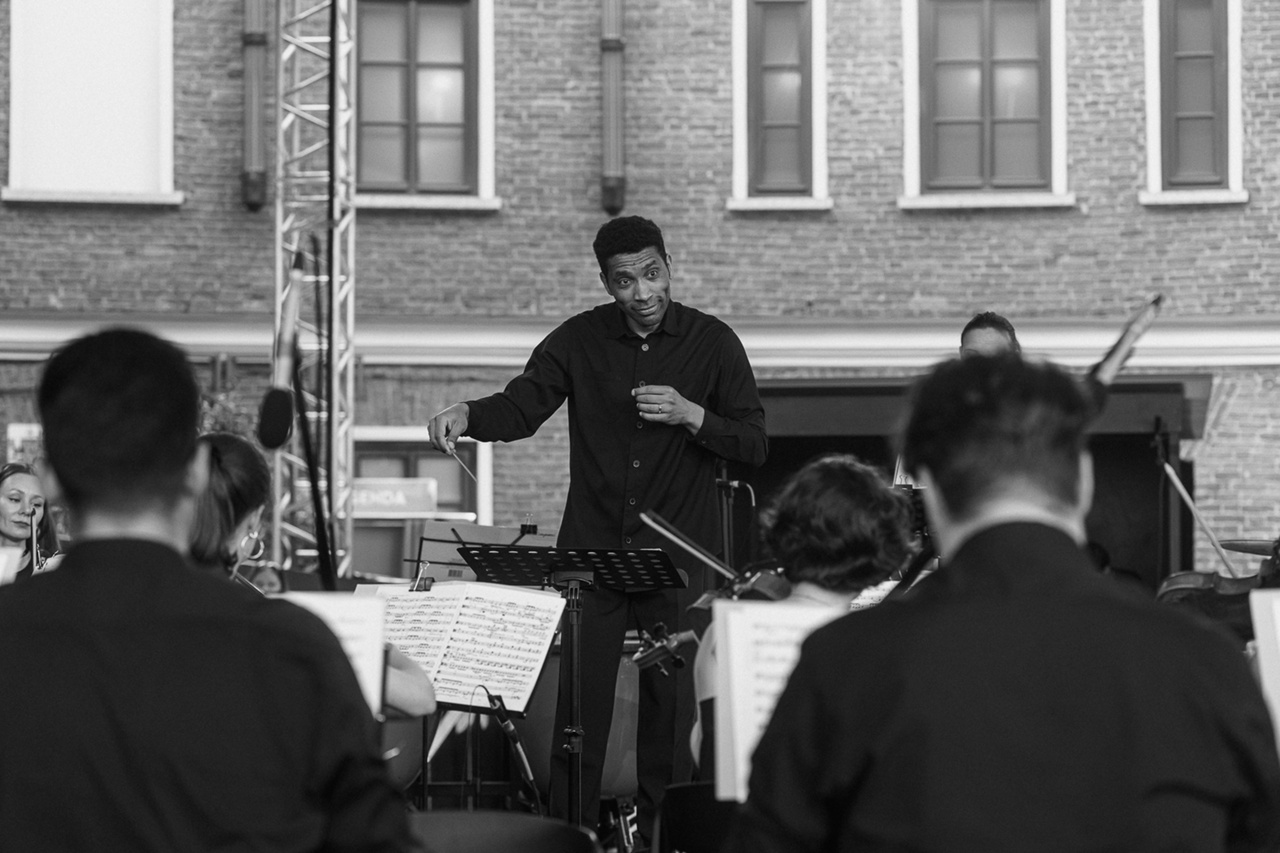
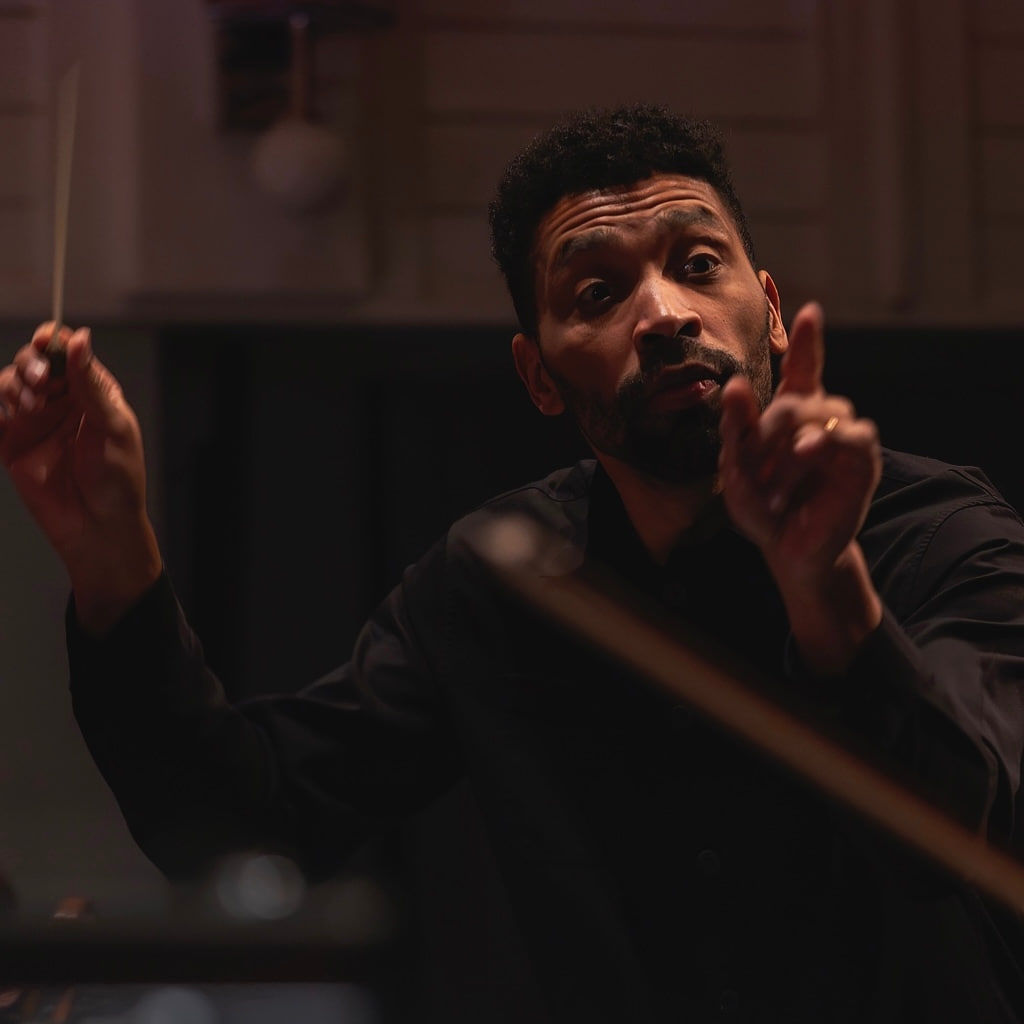
fix: color change in gallery

diff --git a/styles.css b/styles.css
@@ -422,8 +422,8 @@ img {
   --bg: #EFE3DA;
   --primary: #FF5757;
   --secondary: #FFBA55;
-  --text: #143127;
-  --muted: rgba(20, 49, 39, 0.72);
+  --text: #000000;
+  --muted: rgba(0, 0, 0, 0.72);
   --card: rgba(255, 255, 255, 0.72);
   --card-strong: rgba(255, 255, 255, 0.9);
   --line: rgba(20, 49, 39, 0.18);
@@ -774,7 +774,7 @@ body.is-menu-open {
   object-fit: cover;
   display: block;
   transform: scale(1.02);
-  filter: grayscale(1) contrast(1.25) brightness(0.98) saturate(0);
+  filter: grayscale(1) contrast(0.95) brightness(1.08) saturate(0);
 }
 
 .photo-halftone::after {
@@ -1653,34 +1653,57 @@ align-items: center;
   border-radius: 0;
 }
 
+.member-photo .photo-halftone {
+  display: block;
+  width: 100%;
+  height: 100%;
+}
+
+.member-photo .photo-halftone img {
+  width: 100%;
+  height: 100%;
+  object-fit: cover;
+  filter: grayscale(100%);
+  transition: filter 0.4s ease, transform 0.4s ease;
+}
+
+.member-card:hover .member-photo .photo-halftone img {
+  filter: grayscale(0%);
+  transform: scale(1.04);
+}
+
 .member-overlay {
   position: absolute;
   inset: auto 0 0 0;
   padding: 16px;
   background: linear-gradient(
     to top,
-    rgba(239, 227, 218, 0.95),
-    rgba(239, 227, 218, 0.65),
-    rgba(239, 227, 218, 0)
+    rgba(0, 0, 0, 0.92),
+    rgba(0, 0, 0, 0.55),
+    rgba(0, 0, 0, 0)
   );
 }
 
 .member-name {
   margin: 0 0 6px;
   font-size: 22px;
+  color: rgba(255, 255, 255, 0.98);
+  text-shadow: 0 2px 14px rgba(0, 0, 0, 0.55);
 }
 
 .member-role {
   margin: 0 0 12px;
-  color: var(--muted);
+  color: rgba(255, 255, 255, 0.82);
   font-weight: 750;
+  text-shadow: 0 2px 14px rgba(0, 0, 0, 0.55);
 }
 
 .member-bio {
   margin: 0;
-  color: var(--muted);
+  color: rgba(255, 255, 255, 0.9);
   font-weight: 650;
-  line-height: 1.6;
+  line-height: 1.72;
+  text-shadow: 0 2px 14px rgba(0, 0, 0, 0.55);
 }
 
 .gallery-grid {
